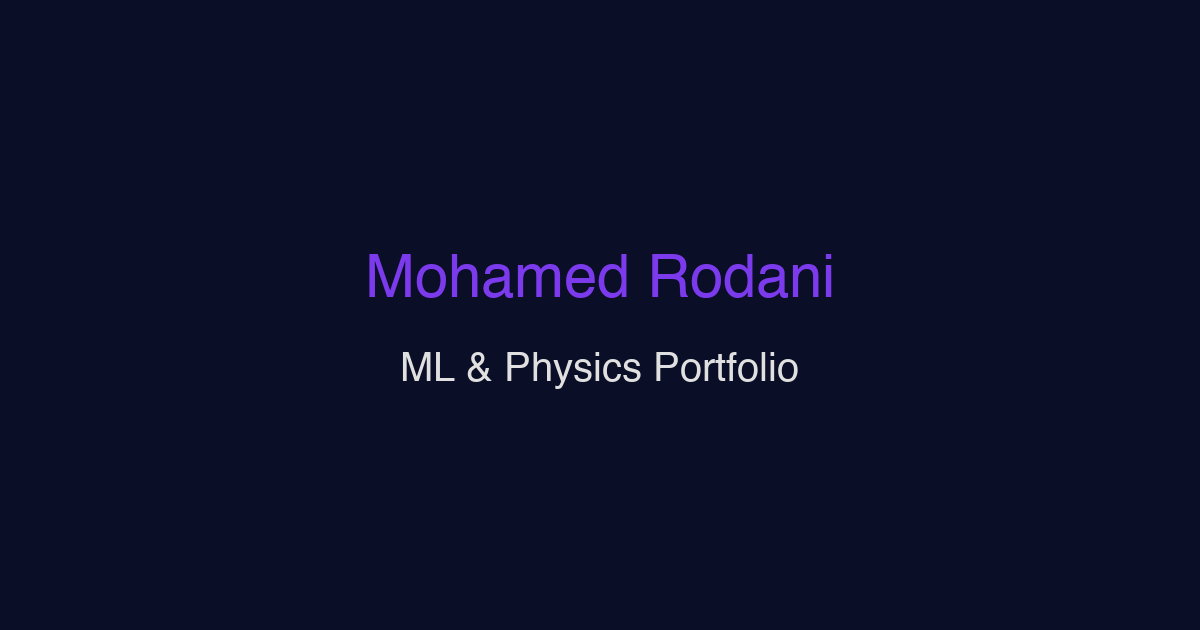
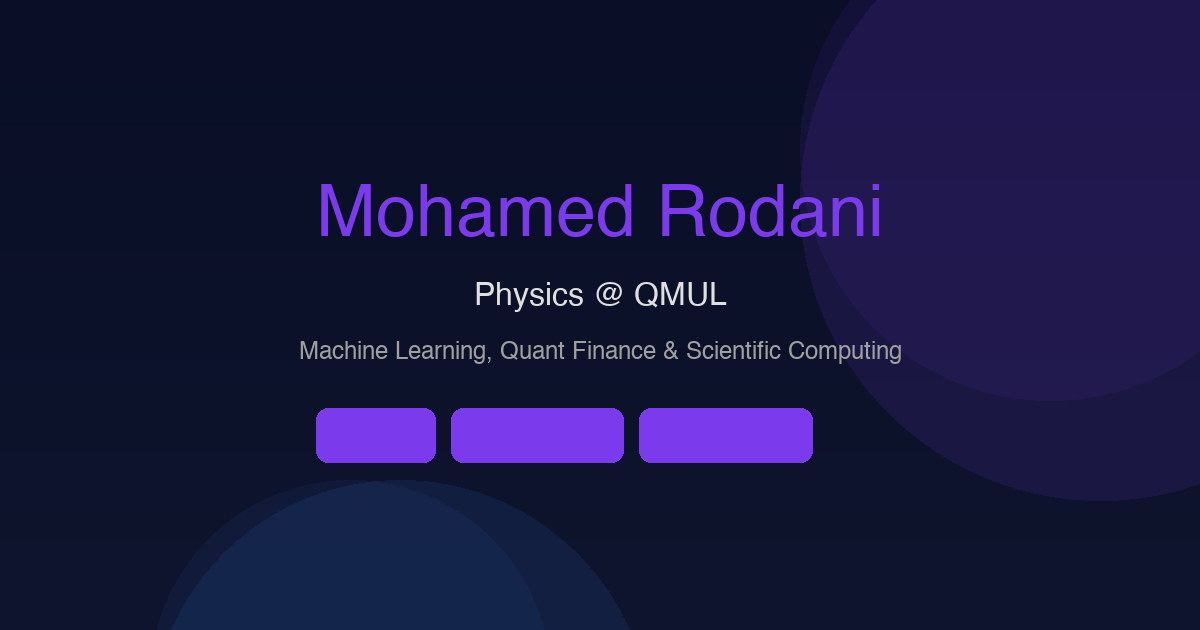
Add OG image for social media sharing

diff --git a/generate-og-image.html b/generate-og-image.html
@@ -1,0 +1,173 @@
+<!DOCTYPE html>
+<html lang="en">
+<head>
+    <meta charset="UTF-8">
+    <meta name="viewport" content="width=device-width, initial-scale=1.0">
+    <title>OG Image Generator</title>
+    <style>
+        * {
+            margin: 0;
+            padding: 0;
+            box-sizing: border-box;
+        }
+
+        body {
+            display: flex;
+            justify-content: center;
+            align-items: center;
+            min-height: 100vh;
+            background: #1a1a1a;
+            padding: 20px;
+        }
+
+        .og-image {
+            width: 1200px;
+            height: 630px;
+            background: linear-gradient(135deg, #0a0e27 0%, #0f1629 50%, #151b2e 100%);
+            display: flex;
+            flex-direction: column;
+            justify-content: center;
+            align-items: center;
+            padding: 80px;
+            position: relative;
+            overflow: hidden;
+            font-family: 'Inter', -apple-system, BlinkMacSystemFont, 'Segoe UI', sans-serif;
+        }
+
+        /* Decorative background elements */
+        .og-image::before {
+            content: '';
+            position: absolute;
+            top: -50%;
+            right: -10%;
+            width: 600px;
+            height: 600px;
+            background: radial-gradient(circle, rgba(124, 58, 237, 0.15) 0%, transparent 70%);
+            border-radius: 50%;
+        }
+
+        .og-image::after {
+            content: '';
+            position: absolute;
+            bottom: -30%;
+            left: -5%;
+            width: 500px;
+            height: 500px;
+            background: radial-gradient(circle, rgba(59, 130, 246, 0.1) 0%, transparent 70%);
+            border-radius: 50%;
+        }
+
+        .content {
+            position: relative;
+            z-index: 1;
+            text-align: center;
+            width: 100%;
+        }
+
+        .name {
+            font-size: 72px;
+            font-weight: 700;
+            background: linear-gradient(135deg, #7c3aed 0%, #3b82f6 100%);
+            -webkit-background-clip: text;
+            -webkit-text-fill-color: transparent;
+            background-clip: text;
+            margin-bottom: 24px;
+            line-height: 1.1;
+        }
+
+        .tagline {
+            font-size: 32px;
+            color: #e0e0e0;
+            font-weight: 600;
+            margin-bottom: 32px;
+            line-height: 1.4;
+        }
+
+        .subtitle {
+            font-size: 24px;
+            color: #a0a0a0;
+            font-weight: 400;
+            line-height: 1.5;
+            max-width: 900px;
+            margin: 0 auto;
+        }
+
+        .badges {
+            display: flex;
+            justify-content: center;
+            gap: 16px;
+            margin-top: 40px;
+            flex-wrap: wrap;
+        }
+
+        .badge {
+            padding: 8px 20px;
+            background: rgba(124, 58, 237, 0.15);
+            border: 1px solid rgba(124, 58, 237, 0.3);
+            border-radius: 24px;
+            color: #7c3aed;
+            font-size: 18px;
+            font-weight: 500;
+        }
+
+        .instructions {
+            margin-top: 40px;
+            padding: 20px;
+            background: rgba(255, 255, 255, 0.1);
+            border-radius: 8px;
+            color: #e0e0e0;
+            font-size: 14px;
+            max-width: 600px;
+            margin-left: auto;
+            margin-right: auto;
+        }
+
+        .instructions h3 {
+            margin-bottom: 12px;
+            color: #7c3aed;
+        }
+
+        .instructions ol {
+            text-align: left;
+            padding-left: 20px;
+        }
+
+        .instructions li {
+            margin-bottom: 8px;
+        }
+    </style>
+</head>
+<body>
+    <div class="og-image" id="ogImage">
+        <div class="content">
+            <h1 class="name">Mohamed Rodani</h1>
+            <p class="tagline">Physics @ QMUL</p>
+            <p class="subtitle">Machine Learning, Quant Finance & Scientific Computing</p>
+            <div class="badges">
+                <span class="badge">ML Projects</span>
+                <span class="badge">Hackathon Winner</span>
+                <span class="badge">Kaggle Competitor</span>
+            </div>
+        </div>
+    </div>
+
+    <div class="instructions">
+        <h3>📸 How to capture this as OG image:</h3>
+        <ol>
+            <li><strong>Option 1 (Recommended):</strong> Use a browser extension like "GoFullPage" or take a screenshot</li>
+            <li><strong>Option 2:</strong> Right-click the image area → Inspect → Use browser dev tools to screenshot</li>
+            <li><strong>Option 3:</strong> Use an online tool like <a href="https://www.screencapture.com" style="color: #7c3aed;">screencapture.com</a></li>
+            <li>Save as <code>og-image.png</code> (1200x630px) in your <code>assets/</code> folder</li>
+        </ol>
+        <p style="margin-top: 12px; font-size: 12px; color: #a0a0a0;">
+            The image above is exactly 1200x630px - the recommended size for OG images.
+        </p>
+    </div>
+
+    <script>
+        // Make sure the image is exactly 1200x630px
+        const ogImage = document.getElementById('ogImage');
+        console.log('OG Image dimensions:', ogImage.offsetWidth, 'x', ogImage.offsetHeight);
+    </script>
+</body>
+</html>

diff --git a/generate_og_image.py b/generate_og_image.py
@@ -1,0 +1,184 @@
+#!/usr/bin/env python3
+"""
+Generate OG (Open Graph) image for portfolio website.
+Creates a 1200x630px image matching the site's design theme.
+"""
+
+from PIL import Image, ImageDraw, ImageFont
+import os
+
+# Dimensions (Open Graph recommended size)
+WIDTH = 1200
+HEIGHT = 630
+
+# Colors matching your site theme
+BG_DARK = (10, 14, 39)      # #0a0e27
+BG_SECONDARY = (15, 21, 46)  # #0f1629
+ACCENT_PURPLE = (124, 58, 237)  # #7c3aed
+ACCENT_BLUE = (59, 130, 246)    # #3b82f6
+TEXT_PRIMARY = (224, 224, 224)  # #e0e0e0
+TEXT_SECONDARY = (160, 160, 160)  # #a0a0a0
+
+def create_gradient_background(width, height):
+    """Create a gradient background"""
+    img = Image.new('RGB', (width, height), BG_DARK)
+    pixels = img.load()
+    
+    # Create a subtle gradient
+    for y in range(height):
+        # Blend between dark shades
+        ratio = y / height
+        r = int(BG_DARK[0] + (BG_SECONDARY[0] - BG_DARK[0]) * ratio)
+        g = int(BG_DARK[1] + (BG_SECONDARY[1] - BG_DARK[1]) * ratio)
+        b = int(BG_DARK[2] + (BG_SECONDARY[2] - BG_DARK[2]) * ratio)
+        
+        for x in range(width):
+            pixels[x, y] = (r, g, b)
+    
+    return img
+
+def draw_text_with_gradient(draw, text, position, font, gradient_colors):
+    """Draw text with gradient effect"""
+    # Get text bounding box
+    bbox = draw.textbbox((0, 0), text, font=font)
+    text_width = bbox[2] - bbox[0]
+    text_height = bbox[3] - bbox[1]
+    
+    # Create temporary image for gradient text
+    temp_img = Image.new('RGBA', (text_width, text_height), (0, 0, 0, 0))
+    temp_draw = ImageDraw.Draw(temp_img)
+    
+    # Draw gradient rectangles
+    for i, color in enumerate(gradient_colors):
+        x1 = int(i * text_width / len(gradient_colors))
+        x2 = int((i + 1) * text_width / len(gradient_colors))
+        temp_draw.rectangle([x1, 0, x2, text_height], fill=color)
+    
+    # Create mask from text
+    mask = Image.new('L', (text_width, text_height), 0)
+    mask_draw = ImageDraw.Draw(mask)
+    mask_draw.text((0, 0), text, font=font, fill=255)
+    
+    # Apply mask and composite
+    temp_img.putalpha(mask)
+    
+    # Paste onto main image
+    img = draw._image if hasattr(draw, '_image') else None
+    if img:
+        img.alpha_composite(temp_img, position)
+    
+    return text_width, text_height
+
+def main():
+    # Create base image with gradient
+    img = create_gradient_background(WIDTH, HEIGHT)
+    draw = ImageDraw.Draw(img)
+    
+    # Try to load a nice font, fallback to default
+    try:
+        # Try system fonts
+        title_font = ImageFont.truetype("/System/Library/Fonts/Helvetica.ttc", 72)
+        tagline_font = ImageFont.truetype("/System/Library/Fonts/Helvetica.ttc", 32)
+        subtitle_font = ImageFont.truetype("/System/Library/Fonts/Helvetica.ttc", 24)
+        badge_font = ImageFont.truetype("/System/Library/Fonts/Helvetica.ttc", 18)
+    except:
+        try:
+            # Fallback to Arial
+            title_font = ImageFont.truetype("arial.ttf", 72)
+            tagline_font = ImageFont.truetype("arial.ttf", 32)
+            subtitle_font = ImageFont.truetype("arial.ttf", 24)
+            badge_font = ImageFont.truetype("arial.ttf", 18)
+        except:
+            # Use default font
+            title_font = ImageFont.load_default()
+            tagline_font = ImageFont.load_default()
+            subtitle_font = ImageFont.load_default()
+            badge_font = ImageFont.load_default()
+    
+    # Center coordinates
+    center_x = WIDTH // 2
+    
+    # Draw decorative circles (subtle background elements)
+    # Purple glow
+    for radius, opacity in [(300, 30), (250, 20)]:
+        overlay = Image.new('RGBA', (WIDTH, HEIGHT), (0, 0, 0, 0))
+        overlay_draw = ImageDraw.Draw(overlay)
+        overlay_draw.ellipse(
+            [center_x + 200, -100, center_x + 200 + radius * 2, -100 + radius * 2],
+            fill=(*ACCENT_PURPLE, opacity)
+        )
+        img = Image.alpha_composite(img.convert('RGBA'), overlay).convert('RGB')
+        draw = ImageDraw.Draw(img)
+    
+    # Blue glow
+    for radius, opacity in [(250, 25), (200, 15)]:
+        overlay = Image.new('RGBA', (WIDTH, HEIGHT), (0, 0, 0, 0))
+        overlay_draw = ImageDraw.Draw(overlay)
+        overlay_draw.ellipse(
+            [center_x - 450, HEIGHT - 150, center_x - 450 + radius * 2, HEIGHT - 150 + radius * 2],
+            fill=(*ACCENT_BLUE, opacity)
+        )
+        img = Image.alpha_composite(img.convert('RGBA'), overlay).convert('RGB')
+        draw = ImageDraw.Draw(img)
+    
+    # Name - with gradient effect
+    name_text = "Mohamed Rodani"
+    name_bbox = draw.textbbox((0, 0), name_text, font=title_font)
+    name_width = name_bbox[2] - name_bbox[0]
+    name_x = center_x - name_width // 2
+    name_y = 180
+    
+    # Draw name with gradient (simulated with solid purple for simplicity)
+    draw.text((name_x, name_y), name_text, font=title_font, fill=ACCENT_PURPLE)
+    
+    # Tagline
+    tagline_text = "Physics @ QMUL"
+    tagline_bbox = draw.textbbox((0, 0), tagline_text, font=tagline_font)
+    tagline_width = tagline_bbox[2] - tagline_bbox[0]
+    tagline_x = center_x - tagline_width // 2
+    tagline_y = name_y + 100
+    draw.text((tagline_x, tagline_y), tagline_text, font=tagline_font, fill=TEXT_PRIMARY)
+    
+    # Subtitle
+    subtitle_text = "Machine Learning, Quant Finance & Scientific Computing"
+    subtitle_bbox = draw.textbbox((0, 0), subtitle_text, font=subtitle_font)
+    subtitle_width = subtitle_bbox[2] - subtitle_bbox[0]
+    subtitle_x = center_x - subtitle_width // 2
+    subtitle_y = tagline_y + 60
+    draw.text((subtitle_x, subtitle_y), subtitle_text, font=subtitle_font, fill=TEXT_SECONDARY)
+    
+    # Badges
+    badges = ["ML Projects", "Hackathon Winner", "Kaggle Competitor"]
+    badge_y = subtitle_y + 80
+    total_badge_width = sum(draw.textbbox((0, 0), badge, font=badge_font)[2] - draw.textbbox((0, 0), badge, font=badge_font)[0] + 40 for badge in badges)
+    badge_spacing = 16
+    total_width = total_badge_width + badge_spacing * (len(badges) - 1)
+    badge_start_x = center_x - total_width // 2
+    
+    x_offset = 0
+    for badge in badges:
+        badge_width = draw.textbbox((0, 0), badge, font=badge_font)[2] - draw.textbbox((0, 0), badge, font=badge_font)[0]
+        
+        # Draw badge background
+        padding = 12
+        badge_rect = [
+            badge_start_x + x_offset - padding,
+            badge_y - padding,
+            badge_start_x + x_offset + badge_width + padding,
+            badge_y + 30 + padding
+        ]
+        # Rounded rectangle approximation
+        draw.rounded_rectangle(badge_rect, radius=12, fill=(*ACCENT_PURPLE, 38), outline=(*ACCENT_PURPLE, 77))
+        draw.text((badge_start_x + x_offset, badge_y), badge, font=badge_font, fill=ACCENT_PURPLE)
+        
+        x_offset += badge_width + padding * 2 + badge_spacing
+    
+    # Save the image
+    output_path = "assets/og-image.png"
+    img.save(output_path, "PNG", optimize=True)
+    print(f"✅ OG image created successfully: {output_path}")
+    print(f"   Dimensions: {WIDTH}x{HEIGHT}px")
+    return output_path
+
+if __name__ == "__main__":
+    main()
